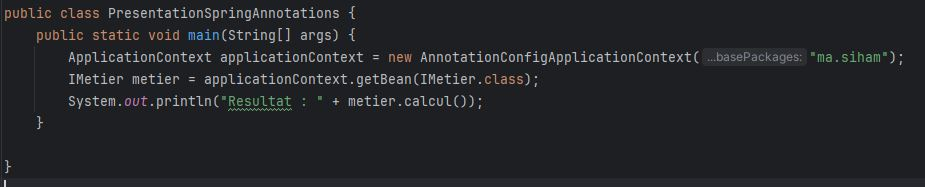
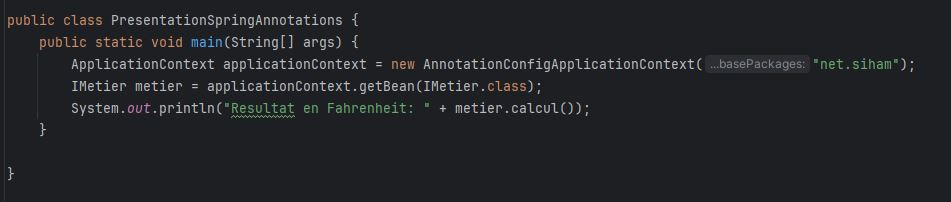
Implémentation de l'injection des dépendances avec le framework Spring : Version annotations

diff --git a/src/main/java/net/siham/presentation/PresentationSpringAnnotations.java b/src/main/java/net/siham/presentation/PresentationSpringAnnotations.java
@@ -1,0 +1,14 @@
+package net.siham.presentation;
+
+import net.siham.metier.IMetier;
+import org.springframework.context.ApplicationContext;
+import org.springframework.context.annotation.AnnotationConfigApplicationContext;
+
+public class PresentationSpringAnnotations {
+    public static void main(String[] args) {
+        ApplicationContext applicationContext = new AnnotationConfigApplicationContext("net.siham");
+        IMetier metier = applicationContext.getBean(IMetier.class);
+        System.out.println("Resultat en Fahrenheit: " + metier.calcul());
+    }
+
+}

diff --git a/src/main/java/net/siham/metier/MetierImpl.java b/src/main/java/net/siham/metier/MetierImpl.java
@@ -1,9 +1,13 @@
 package net.siham.metier;
 
 import net.siham.dao.IDao;
+import org.springframework.beans.factory.annotation.Autowired;
+import org.springframework.stereotype.Component;
 
+@Component
 public class MetierImpl implements IMetier {
 
+    @Autowired
     private IDao dao; //couplage faible
 
     @Override

diff --git a/src/main/java/net/siham/dao/DaoImpl.java b/src/main/java/net/siham/dao/DaoImpl.java
@@ -1,6 +1,8 @@
 package net.siham.dao;
 
+import org.springframework.stereotype.Component;
 
+@Component("d")
 public class DaoImpl implements IDao {
     @Override
     public double getData() {

diff --git a/README.md b/README.md
@@ -1,6 +1,6 @@
 ## Objectif
 
-Ce travail a pour objectif de mettre en pratique le principe de couplage faible en Java,
+Ce travail a pour objectif de mettre en pratique le principe de couplage faible en Java.
 
 **Étapes de réalisation :**
 
@@ -30,23 +30,24 @@ Ce travail a pour objectif de mettre en pratique le principe de couplage faible 
 
 5. L'injection des dépendances :
 
-   a. Par instanciation statique :
+a. Par instanciation statique :
 
 La classe DaoImpl est instanciée directement à l'aide de new DaoImpl(), puis elle est injectée dans le constructeur de la classe MetierImpl.
 L'injection de dépendances par instanciation statique se fait au moment de la compilation, où les objets sont créés explicitement à l'aide de leurs constructeurs.
 
+
 ![Instanciation statique](captures/InstanciationStatique-image5.JPG)
 
-   b. Par instanciation dynamique :
+b. Par instanciation dynamique :
 
 les classes DaoImpl et MetierImpl sont chargées dynamiquement à l'exécution via la réflexion (Class.forName()),
 et les instances sont créées avec newInstance(). L'instance de DaoImpl est ensuite injectée dans le constructeur de MetierImpl au moment de l'exécution.
 L'injection de dépendances par instanciation dynamique utilise la réflexion pour créer des instances d'objets à l'exécution.
-Cela permet de charger des classes et d'injecter des dépendances sans connaître les types à la compilation
+Cela permet de charger des classes et d'injecter des dépendances sans connaître les types à la compilation.
 
 ![Instanciation dynamique](captures/InstanciationDynamique-image6.JPG)
 
-   c. En utilisant le Framework Spring :
+c. En utilisant le Framework Spring :
 
 L'injection des dépendances a été implémentée en utilisant le Framework Spring, selon deux approches :
 
@@ -56,4 +57,14 @@ Dans cette approche, la configuration des beans est définie dans un fichier XML
 Les classes et leurs dépendances y sont déclarées manuellement, permettant à Spring de gérer leur instanciation et leur injection.
 
 ![Version XML](captures/VersionXML-image7.JPG)
+
+- Version Annotations :
+
+Cette version repose sur l'utilisation des annotations fournies par Spring.
+
+@Component permet de déclarer une classe comme bean.
+@Autowired permet l'injection automatique d'une dépendance.
+
+![Version Annotations](captures/VersionAnnotations-image8.JPG)
+
 
